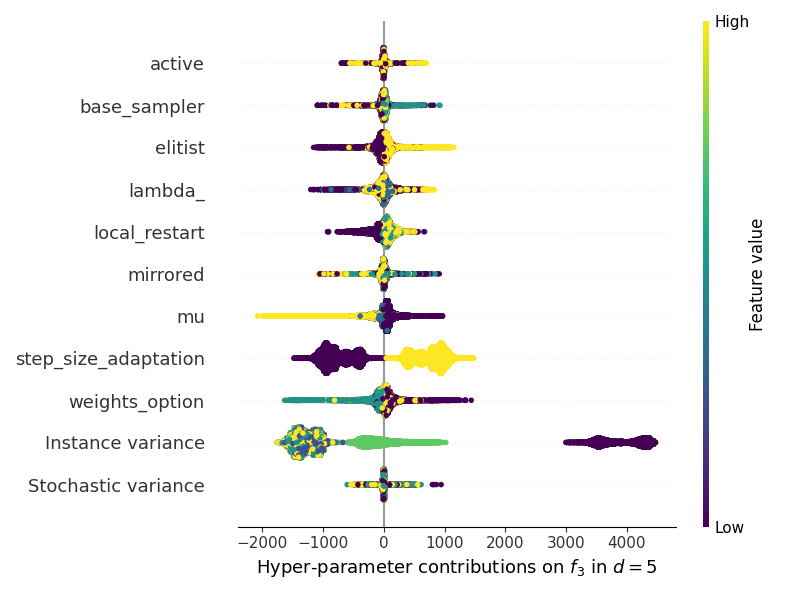
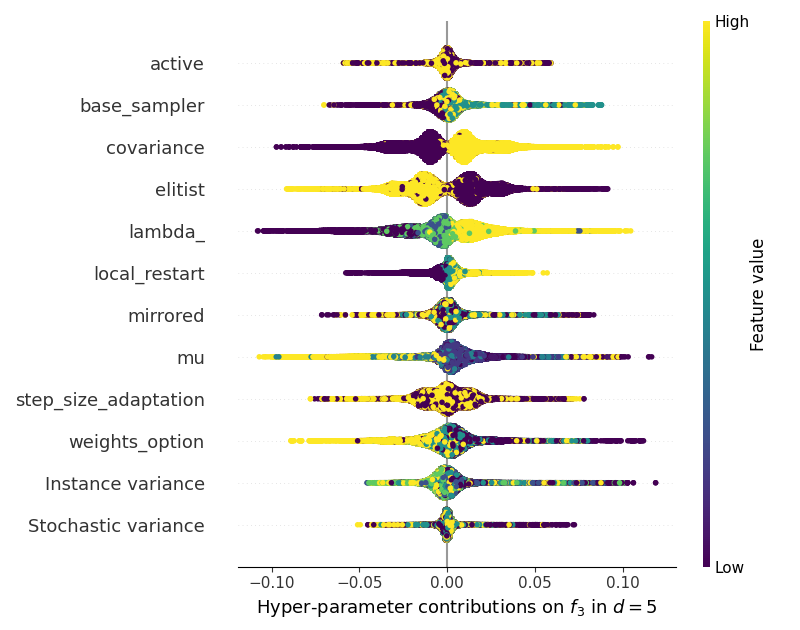
part of the new results for cma

diff --git a/cma_process_pkl.py b/cma_process_pkl.py
@@ -17,9 +17,10 @@ dfall['lambda_'] = dfall['lambda_'].replace(np.nan,'nan')
 dfall['mu'] = dfall['mu'].replace(np.nan,'nan')
 
 #remove all mu > lambda
-dfall.loc[(dfall['lambda_'] == 'nan') & (dfall['dim'] == 5),'lambda_'] = 6
-dfall.loc[(dfall['lambda_'] == 'nan') & (dfall['dim'] == 30),'lambda_'] = 8
+dfall.loc[(dfall['lambda_'] == 'nan') & (dfall['dim'] == 5),'lambda_'] = 6.0
+dfall.loc[(dfall['lambda_'] == 'nan') & (dfall['dim'] == 30),'lambda_'] = 8.0
 dfall.loc[dfall['mu'] == 'nan','mu'] = dfall.loc[dfall['mu'] == 'nan','lambda_'] // 2
+dfall['mu'] = dfall['mu'].astype(float)
 
 dfall = dfall[dfall['mu'] <= dfall['lambda_']]
 

diff --git a/cma_es_analyse.py b/cma_es_analyse.py
@@ -209,12 +209,11 @@ df = cmaes_explainer.performance_stats()
 
 
 #Hall of fame plots
-cmaes_explainer.explain(partial_dependence=False,
-            shap=False,
-            best_config=True,
-            file_prefix="cma_img_new/",
-            check_bias=False,
-            keep_order=True)
+#cmaes_explainer.explain(partial_dependence=False,
+#            best_config=True,
+#            file_prefix="cma_img_new/",
+#            check_bias=False,
+#            keep_order=True)
 
 
 #cmaes_explainer.plot(partial_dependence=False, best_config=False)
